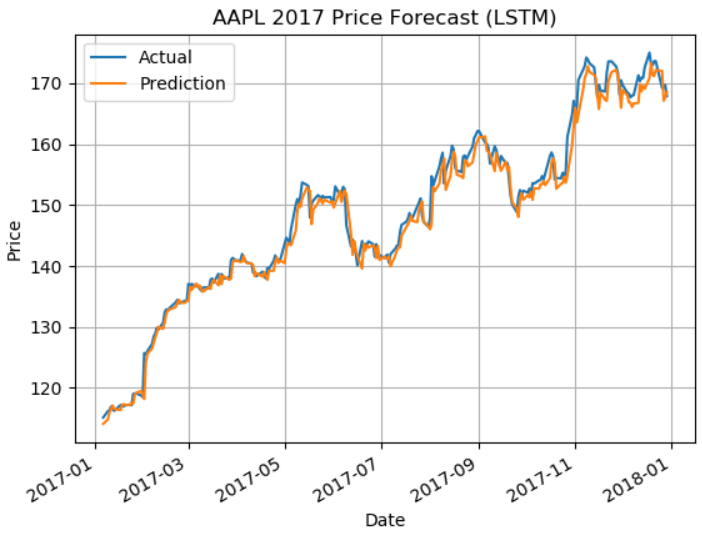
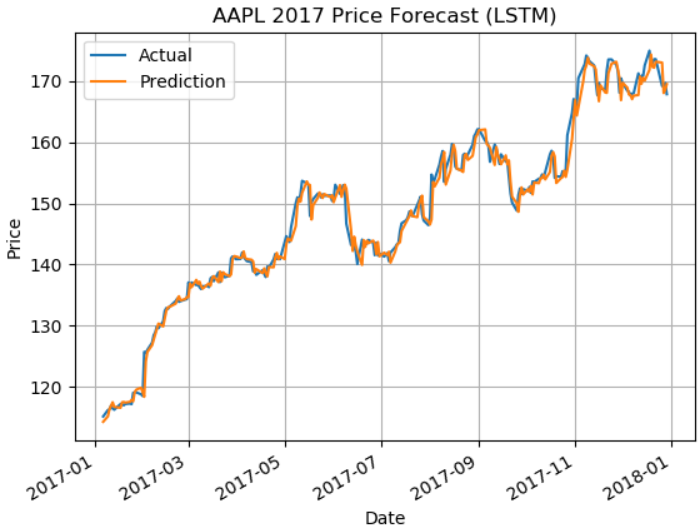
new overlay style

Changed region(s): [[0.0, 0.0, 1.0, 1.0]]

diff --git a/machine_learning/development/testing/analysis.py b/machine_learning/development/testing/analysis.py
@@ -1,14 +1,6 @@
 from machine_learning.development.optimized_lstm import lstm
 from keras.callbacks import EarlyStopping
 
-#volatile vs stable
-'''stocks_list = ['TSLA', 'AMZN']
-show_plot = len(stocks_list)
-dates_dic = {
-    'TSLA': ['2013-01-01', '2018-01-01'],
-    'AMZN': ['2013-01-01', '2018-01-01'],
-    }
-'''
 #sudden vs normal
 stocks_list = ['TSLA']
 show_plot = len(stocks_list)

diff --git a/machine_learning/development/testing/results/analysis.md b/machine_learning/development/testing/results/analysis.md
@@ -30,12 +30,4 @@ This forecast is used to predict the tesla stock for a duration between 01/01/20
 
 ![SvN w/ PAL](https://github.com/ahmedhamdi96/ML4T/blob/master/results/sudden_vs_normal_pal.png)
 
-### Stable (Amazon) Stock vs Volatile(Tesla) Stock Forecast
-
-![Stable](https://github.com/ahmedhamdi96/ML4T/blob/master/results/stable.png)
-
-![Stable Lag](https://github.com/ahmedhamdi96/ML4T/blob/master/results/stable_lag.png)
-
-![Volatile](https://github.com/ahmedhamdi96/ML4T/blob/master/results/volatile.png)
-
-![Volatile Lag](https://github.com/ahmedhamdi96/ML4T/blob/master/results/volatile_lag.png)
+![SvN w/ PAL 1](https://github.com/ahmedhamdi96/ML4T/blob/master/results/sudden_vs_normal_pal_1.png)
